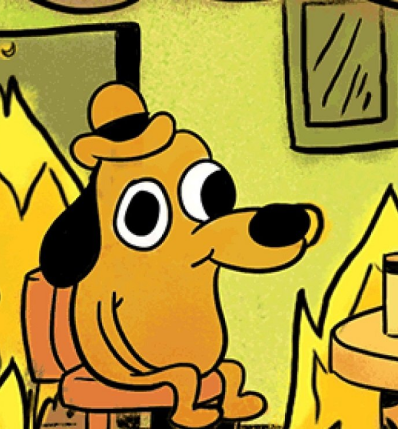
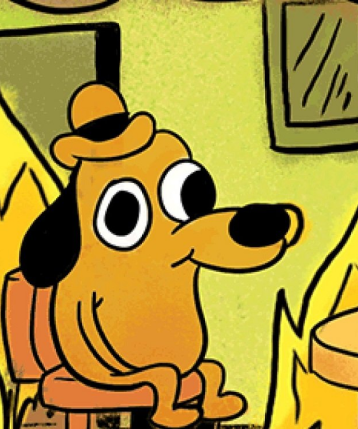
feat: replace img and finish block about me

diff --git a/style.css b/style.css
@@ -12,6 +12,7 @@
 body {
     font-family: 'Lato', sans-serif;
     font-style: normal;
+    font-size: 18px;
     color: #f0f8ff;
     background-color: #292935;
 }
@@ -48,6 +49,7 @@ body {
 }
 
 h1 {
+    margin: 36px 0;
     font-weight: bold;
     font-size: 56px;
 }
@@ -57,9 +59,35 @@ h1 {
 }
 
 .about-me img {
-    width: 400px;
-    height: 440px;
-    margin-left: 96px;
-    margin-right: 60px;
+    margin-left: 96px;;
+    margin-right: 80px;
 }
 
+.about-me-div {
+    width: 520px;
+}
+
+.vacancy {
+    display: inline;
+    padding: 4px;
+    text-transform: uppercase;
+    color: #292935;
+    background-color: #FFCD04;
+    border-radius: 4px;
+}
+
+#about {
+    margin-top: 36px;
+}
+
+h2::after {
+    content: "";
+    display: block;
+    width: 32px;
+    padding-top: 32px;
+    border-bottom: 4px solid #f0f8ff;
+}
+
+.about-me-div p {
+    margin-top: 32px;
+}
